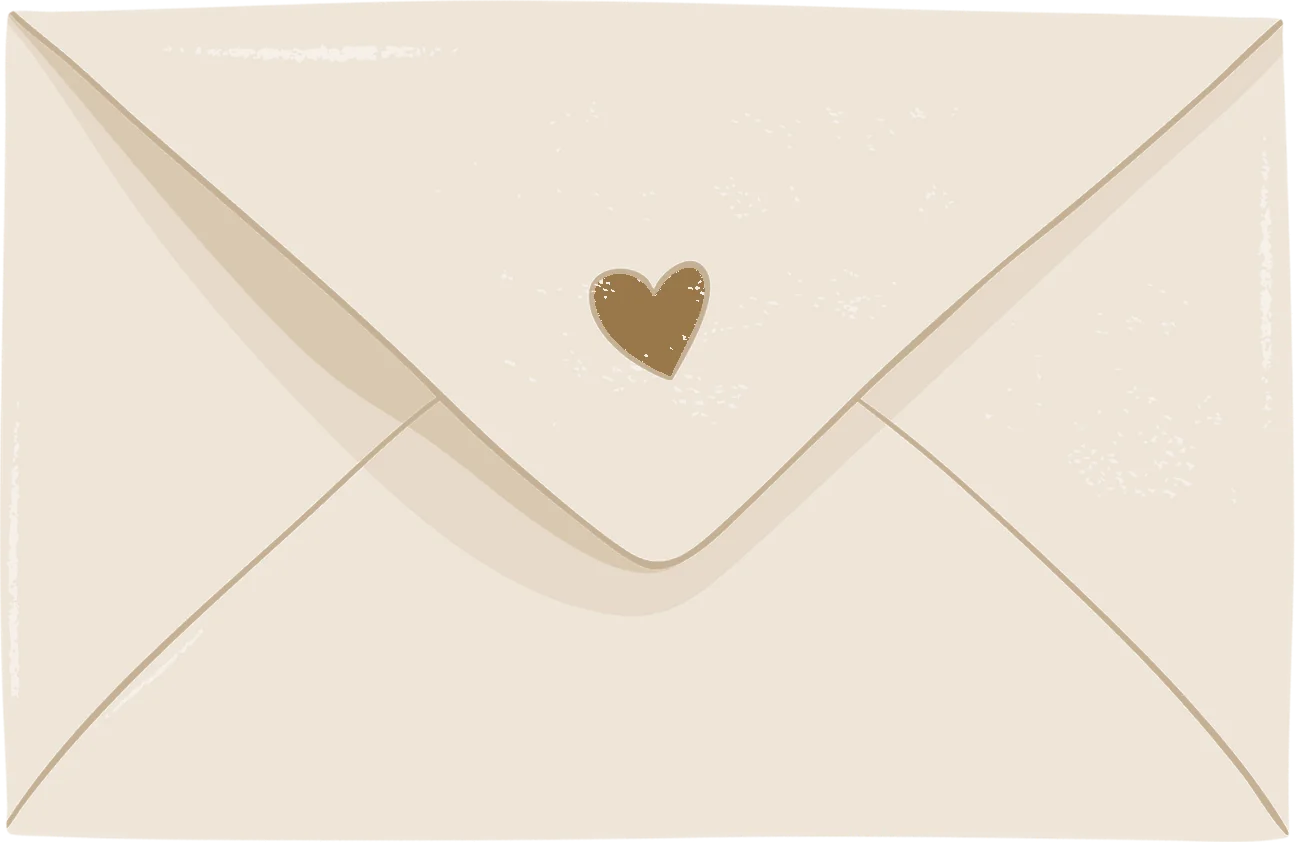
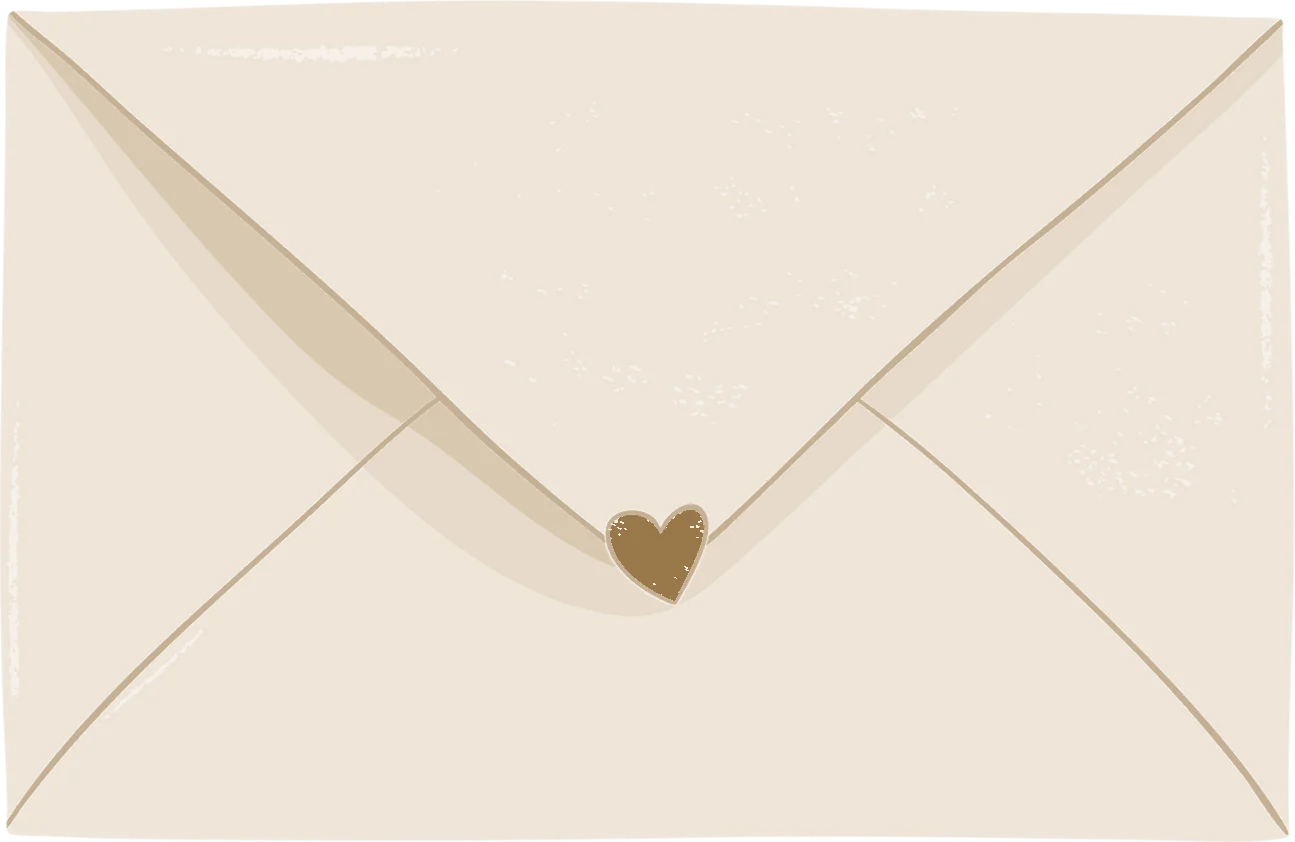
Letters: heart moved onto the flap tip with the title above it, arrows at the bottom, a whole faint handwritten letter behind

Changed region(s): [[0.4324, 0.3088, 0.556, 0.4632], [0.4633, 0.5867, 0.556, 0.7102]]

diff --git a/index.html b/index.html
@@ -366,15 +366,15 @@ section{position:relative}
 .gallery figure:hover img{transform:scale(1.05);filter:saturate(1)}
 /* ---------- letters from parents: an envelope on its side, letters slide out of it one after another ---------- */
 .mail{position:relative;margin-top:90px;display:grid;gap:0;align-items:center}
-.mail-ink{position:absolute;inset:-40px calc(-1*var(--pad)) -20px;z-index:0;overflow:hidden;pointer-events:none;display:flex;flex-direction:column;justify-content:space-around;font-family:Eshchar,Halel,cursive;font-size:clamp(34px,4.6vw,64px);line-height:1;color:var(--navy);opacity:.055;white-space:nowrap;transform:rotate(-4deg)}
-.mail-ink span:nth-child(even){margin-inline-start:-18%}
+.mail-ink{position:absolute;inset:-60px calc(-1*var(--pad)) -40px;z-index:0;overflow:hidden;pointer-events:none;font-family:Eshchar,Halel,cursive;font-size:clamp(17px,1.5vw,22px);line-height:1.75;color:var(--navy);opacity:.07;text-align:justify;transform:rotate(-3deg) scale(1.08)}
 .env2{position:relative;z-index:3;width:min(480px,100%);margin-inline:auto}
-@media (min-width:980px){.env2{--bleed:calc((100vw - min(1360px,100vw - 2 * var(--pad))) / 2 + 60px);width:calc(100% + var(--bleed) - 40px);margin-inline:calc(-1 * var(--bleed)) 0}.env2 .env2-face{left:16%;right:16%;top:68%}}
+@media (min-width:980px){.env2{--bleed:calc((100vw - min(1360px,100vw - 2 * var(--pad))) / 2 + 60px);width:calc(100% + var(--bleed) - 40px);margin-inline:calc(-1 * var(--bleed)) 0}.env2 .env2-face{left:18%;right:18%;top:27%}}
 .env2-img{display:block;width:100%;height:auto;filter:drop-shadow(0 28px 30px rgba(21,56,72,.16))}
-.env2-face{position:absolute;left:20%;right:20%;top:68%;text-align:center}
+.env2-face{position:absolute;left:20%;right:20%;top:27%;text-align:center}
 .mail-h{font-family:Halel;font-weight:400;font-size:clamp(30px,3vw,40px);line-height:1;color:var(--navy)}
 .env2-face p{font-family:Eshchar,Halel,cursive;color:var(--gold);font-size:clamp(20px,1.9vw,26px);line-height:1.1;margin-top:8px}
-.mail-nav{display:flex;align-items:center;justify-content:center;gap:10px;margin-top:12px}
+.mail-nav{display:flex;align-items:center;justify-content:center;gap:10px}
+.env2 .mail-nav{position:absolute;left:0;right:0;bottom:8%}
 .mail-btn{width:40px;height:40px;border-radius:50%;display:grid;place-items:center;border:0;color:var(--navy);background:rgba(255,255,255,.35);cursor:pointer;transition:background .3s,color .3s}
 .mail-btn:hover{background:var(--navy);color:#fff}
 .mail-btn svg{width:20px;height:20px}
@@ -784,16 +784,16 @@ footer img{height:46px;width:auto;margin:0 auto 14px;opacity:.9}
     </div>
 
     <div class="mail" id="mail">
-      <div class="mail-ink" aria-hidden="true"><span>ממליצים בחום · בידיים בטוחות · תודה רבה · מאור פנים מיוחד · שליח נאמן · ביחס חם ונעים · עד הפרט האחרון · מקצועי ויסודי</span><span>תודה רבה · מאור פנים מיוחד · שליח נאמן · ביחס חם ונעים · עד הפרט האחרון · מקצועי ויסודי · ממליצים בחום · בידיים בטוחות</span><span>שליח נאמן · ביחס חם ונעים · עד הפרט האחרון · מקצועי ויסודי · ממליצים בחום · בידיים בטוחות · תודה רבה · מאור פנים מיוחד</span><span>עד הפרט האחרון · מקצועי ויסודי · ממליצים בחום · בידיים בטוחות · תודה רבה · מאור פנים מיוחד · שליח נאמן · ביחס חם ונעים</span></div>
+      <div class="mail-ink" aria-hidden="true"><p>נריה הגיע אלינו לבית לפני הברית לראות את התינוק, והסביר לנו על כל שלב בברית בצורה מפורטת ומרגיעה. היה אפשר להתייעץ איתו על כל דבר. בברית עצמה הכל נעשה במקצועיות. נריה הסביר לנו בדיוק מה לעשות בימים שאחרי הברית, והגיע לראות את התינוק. הרגשנו שאנו בידיים בטוחות ושהכל נעשה בצורה מקצועית ונעימה. ממליצים בחום! נריה הגיע אלינו לבית לפני הברית לראות את התינוק, והסביר לנו על כל שלב בברית בצורה מפורטת ומרגיעה. היה אפשר להתייעץ איתו על כל דבר. בברית עצמה הכל נעשה במקצועיות. נריה הסביר לנו בדיוק מה לעשות בימים שאחרי הברית, והגיע לראות את התינוק. הרגשנו שאנו בידיים בטוחות ושהכל נעשה בצורה מקצועית ונעימה. ממליצים בחום! נריה הגיע אלינו לבית לפני הברית לראות את התינוק, והסביר לנו על כל שלב בברית בצורה מפורטת ומרגיעה. היה אפשר להתייעץ איתו על כל דבר. בברית עצמה הכל נעשה במקצועיות. נריה הסביר לנו בדיוק מה לעשות בימים שאחרי הברית, והגיע לראות את התינוק. הרגשנו שאנו בידיים בטוחות ושהכל נעשה בצורה מקצועית ונעימה. ממליצים בחום! נריה הגיע אלינו לבית לפני הברית לראות את התינוק, והסביר לנו על כל שלב בברית בצורה מפורטת ומרגיעה. היה אפשר להתייעץ איתו על כל דבר. בברית עצמה הכל נעשה במקצועיות. נריה הסביר לנו בדיוק מה לעשות בימים שאחרי הברית, והגיע לראות את התינוק. הרגשנו שאנו בידיים בטוחות ושהכל נעשה בצורה מקצועית ונעימה. ממליצים בחום! נריה הגיע אלינו לבית לפני הברית לראות את התינוק, והסביר לנו על כל שלב בברית בצורה מפורטת ומרגיעה. היה אפשר להתייעץ איתו על כל דבר. בברית עצמה הכל נעשה במקצועיות. נריה הסביר לנו בדיוק מה לעשות בימים שאחרי הברית, והגיע לראות את התינוק. הרגשנו שאנו בידיים בטוחות ושהכל נעשה בצורה מקצועית ונעימה. ממליצים בחום! נריה הגיע אלינו לבית לפני הברית לראות את התינוק, והסביר לנו על כל שלב בברית בצורה מפורטת ומרגיעה. היה אפשר להתייעץ איתו על כל דבר. בברית עצמה הכל נעשה במקצועיות. נריה הסביר לנו בדיוק מה לעשות בימים שאחרי הברית, והגיע לראות את התינוק. הרגשנו שאנו בידיים בטוחות ושהכל נעשה בצורה מקצועית ונעימה. ממליצים בחום! נריה הגיע אלינו לבית לפני הברית לראות את התינוק, והסביר לנו על כל שלב בברית בצורה מפורטת ומרגיעה. היה אפשר להתייעץ איתו על כל דבר. בברית עצמה הכל נעשה במקצועיות. נריה הסביר לנו בדיוק מה לעשות בימים שאחרי הברית, והגיע לראות את התינוק. הרגשנו שאנו בידיים בטוחות ושהכל נעשה בצורה מקצועית ונעימה. ממליצים בחום! נריה הגיע אלינו לבית לפני הברית לראות את התינוק, והסביר לנו על כל שלב בברית בצורה מפורטת ומרגיעה. היה אפשר להתייעץ איתו על כל דבר. בברית עצמה הכל נעשה במקצועיות. נריה הסביר לנו בדיוק מה לעשות בימים שאחרי הברית, והגיע לראות את התינוק. הרגשנו שאנו בידיים בטוחות ושהכל נעשה בצורה מקצועית ונעימה. ממליצים בחום! נריה הגיע אלינו לבית לפני הברית לראות את התינוק, והסביר לנו על כל שלב בברית בצורה מפורטת ומרגיעה. היה אפשר להתייעץ איתו על כל דבר. בברית עצמה הכל נעשה במקצועיות. נריה הסביר לנו בדיוק מה לעשות בימים שאחרי הברית, והגיע לראות את התינוק. הרגשנו שאנו בידיים בטוחות ושהכל נעשה בצורה מקצועית ונעימה. ממליצים בחום! נריה הגיע אלינו לבית לפני הברית לראות את התינוק, והסביר לנו על כל שלב בברית בצורה מפורטת ומרגיעה. היה אפשר להתייעץ איתו על כל דבר. בברית עצמה הכל נעשה במקצועיות. נריה הסביר לנו בדיוק מה לעשות בימים שאחרי הברית, והגיע לראות את התינוק. הרגשנו שאנו בידיים בטוחות ושהכל נעשה בצורה מקצועית ונעימה. ממליצים בחום! נריה הגיע אלינו לבית לפני הברית לראות את התינוק, והסביר לנו על כל שלב בברית בצורה מפורטת ומרגיעה. היה אפשר להתייעץ איתו על כל דבר. בברית עצמה הכל נעשה במקצועיות. נריה הסביר לנו בדיוק מה לעשות בימים שאחרי הברית, והגיע לראות את התינוק. הרגשנו שאנו בידיים בטוחות ושהכל נעשה בצורה מקצועית ונעימה. ממליצים בחום! נריה הגיע אלינו לבית לפני הברית לראות את התינוק, והסביר לנו על כל שלב בברית בצורה מפורטת ומרגיעה. היה אפשר להתייעץ איתו על כל דבר. בברית עצמה הכל נעשה במקצועיות. נריה הסביר לנו בדיוק מה לעשות בימים שאחרי הברית, והגיע לראות את התינוק. הרגשנו שאנו בידיים בטוחות ושהכל נעשה בצורה מקצועית ונעימה. ממליצים בחום! נריה הגיע אלינו לבית לפני הברית לראות את התינוק, והסביר לנו על כל שלב בברית בצורה מפורטת ומרגיעה. היה אפשר להתייעץ איתו על כל דבר. בברית עצמה הכל נעשה במקצועיות. נריה הסביר לנו בדיוק מה לעשות בימים שאחרי הברית, והגיע לראות את התינוק. הרגשנו שאנו בידיים בטוחות ושהכל נעשה בצורה מקצועית ונעימה. ממליצים בחום! נריה הגיע אלינו לבית לפני הברית לראות את התינוק, והסביר לנו על כל שלב בברית בצורה מפורטת ומרגיעה. היה אפשר להתייעץ איתו על כל דבר. בברית עצמה הכל נעשה במקצועיות. נריה הסביר לנו בדיוק מה לעשות בימים שאחרי הברית, והגיע לראות את התינוק. הרגשנו שאנו בידיים בטוחות ושהכל נעשה בצורה מקצועית ונעימה. ממליצים בחום! נריה הגיע אלינו לבית לפני הברית לראות את התינוק, והסביר לנו על כל שלב בברית בצורה מפורטת ומרגיעה. היה אפשר להתייעץ איתו על כל דבר. בברית עצמה הכל נעשה במקצועיות. נריה הסביר לנו בדיוק מה לעשות בימים שאחרי הברית, והגיע לראות את התינוק. הרגשנו שאנו בידיים בטוחות ושהכל נעשה בצורה מקצועית ונעימה. ממליצים בחום! נריה הגיע אלינו לבית לפני הברית לראות את התינוק, והסביר לנו על כל שלב בברית בצורה מפורטת ומרגיעה. היה אפשר להתייעץ איתו על כל דבר. בברית עצמה הכל נעשה במקצועיות. נריה הסביר לנו בדיוק מה לעשות בימים שאחרי הברית, והגיע לראות את התינוק. הרגשנו שאנו בידיים בטוחות ושהכל נעשה בצורה מקצועית ונעימה. ממליצים בחום! </p></div>
       <div class="env2" aria-hidden="false">
         <img class="env2-img" src="assets/img/envelope.webp" alt="" aria-hidden="true" width="1295" height="842" loading="lazy">
         <div class="env2-face">
           <h3 class="mail-h">מכתבים מההורים</h3>
           <p>מילים שכתבו לי משפחות אחרי הברית.</p>
-          <div class="mail-nav">
-            <button class="mail-btn" id="mailPrev" aria-label="המכתב הקודם"><svg viewBox="0 0 24 24" fill="none" stroke="currentColor" stroke-width="1.8" stroke-linecap="round" stroke-linejoin="round"><path d="M9 6l6 6-6 6"/></svg></button>
-            <button class="mail-btn" id="mailNext" aria-label="המכתב הבא"><svg viewBox="0 0 24 24" fill="none" stroke="currentColor" stroke-width="1.8" stroke-linecap="round" stroke-linejoin="round"><path d="M15 6l-6 6 6 6"/></svg></button>
-          </div>
+        </div>
+        <div class="mail-nav">
+          <button class="mail-btn" id="mailPrev" aria-label="המכתב הקודם"><svg viewBox="0 0 24 24" fill="none" stroke="currentColor" stroke-width="1.8" stroke-linecap="round" stroke-linejoin="round"><path d="M9 6l6 6-6 6"/></svg></button>
+          <button class="mail-btn" id="mailNext" aria-label="המכתב הבא"><svg viewBox="0 0 24 24" fill="none" stroke="currentColor" stroke-width="1.8" stroke-linecap="round" stroke-linejoin="round"><path d="M15 6l-6 6 6 6"/></svg></button>
         </div>
       </div>
       <div class="notes" id="notes">
